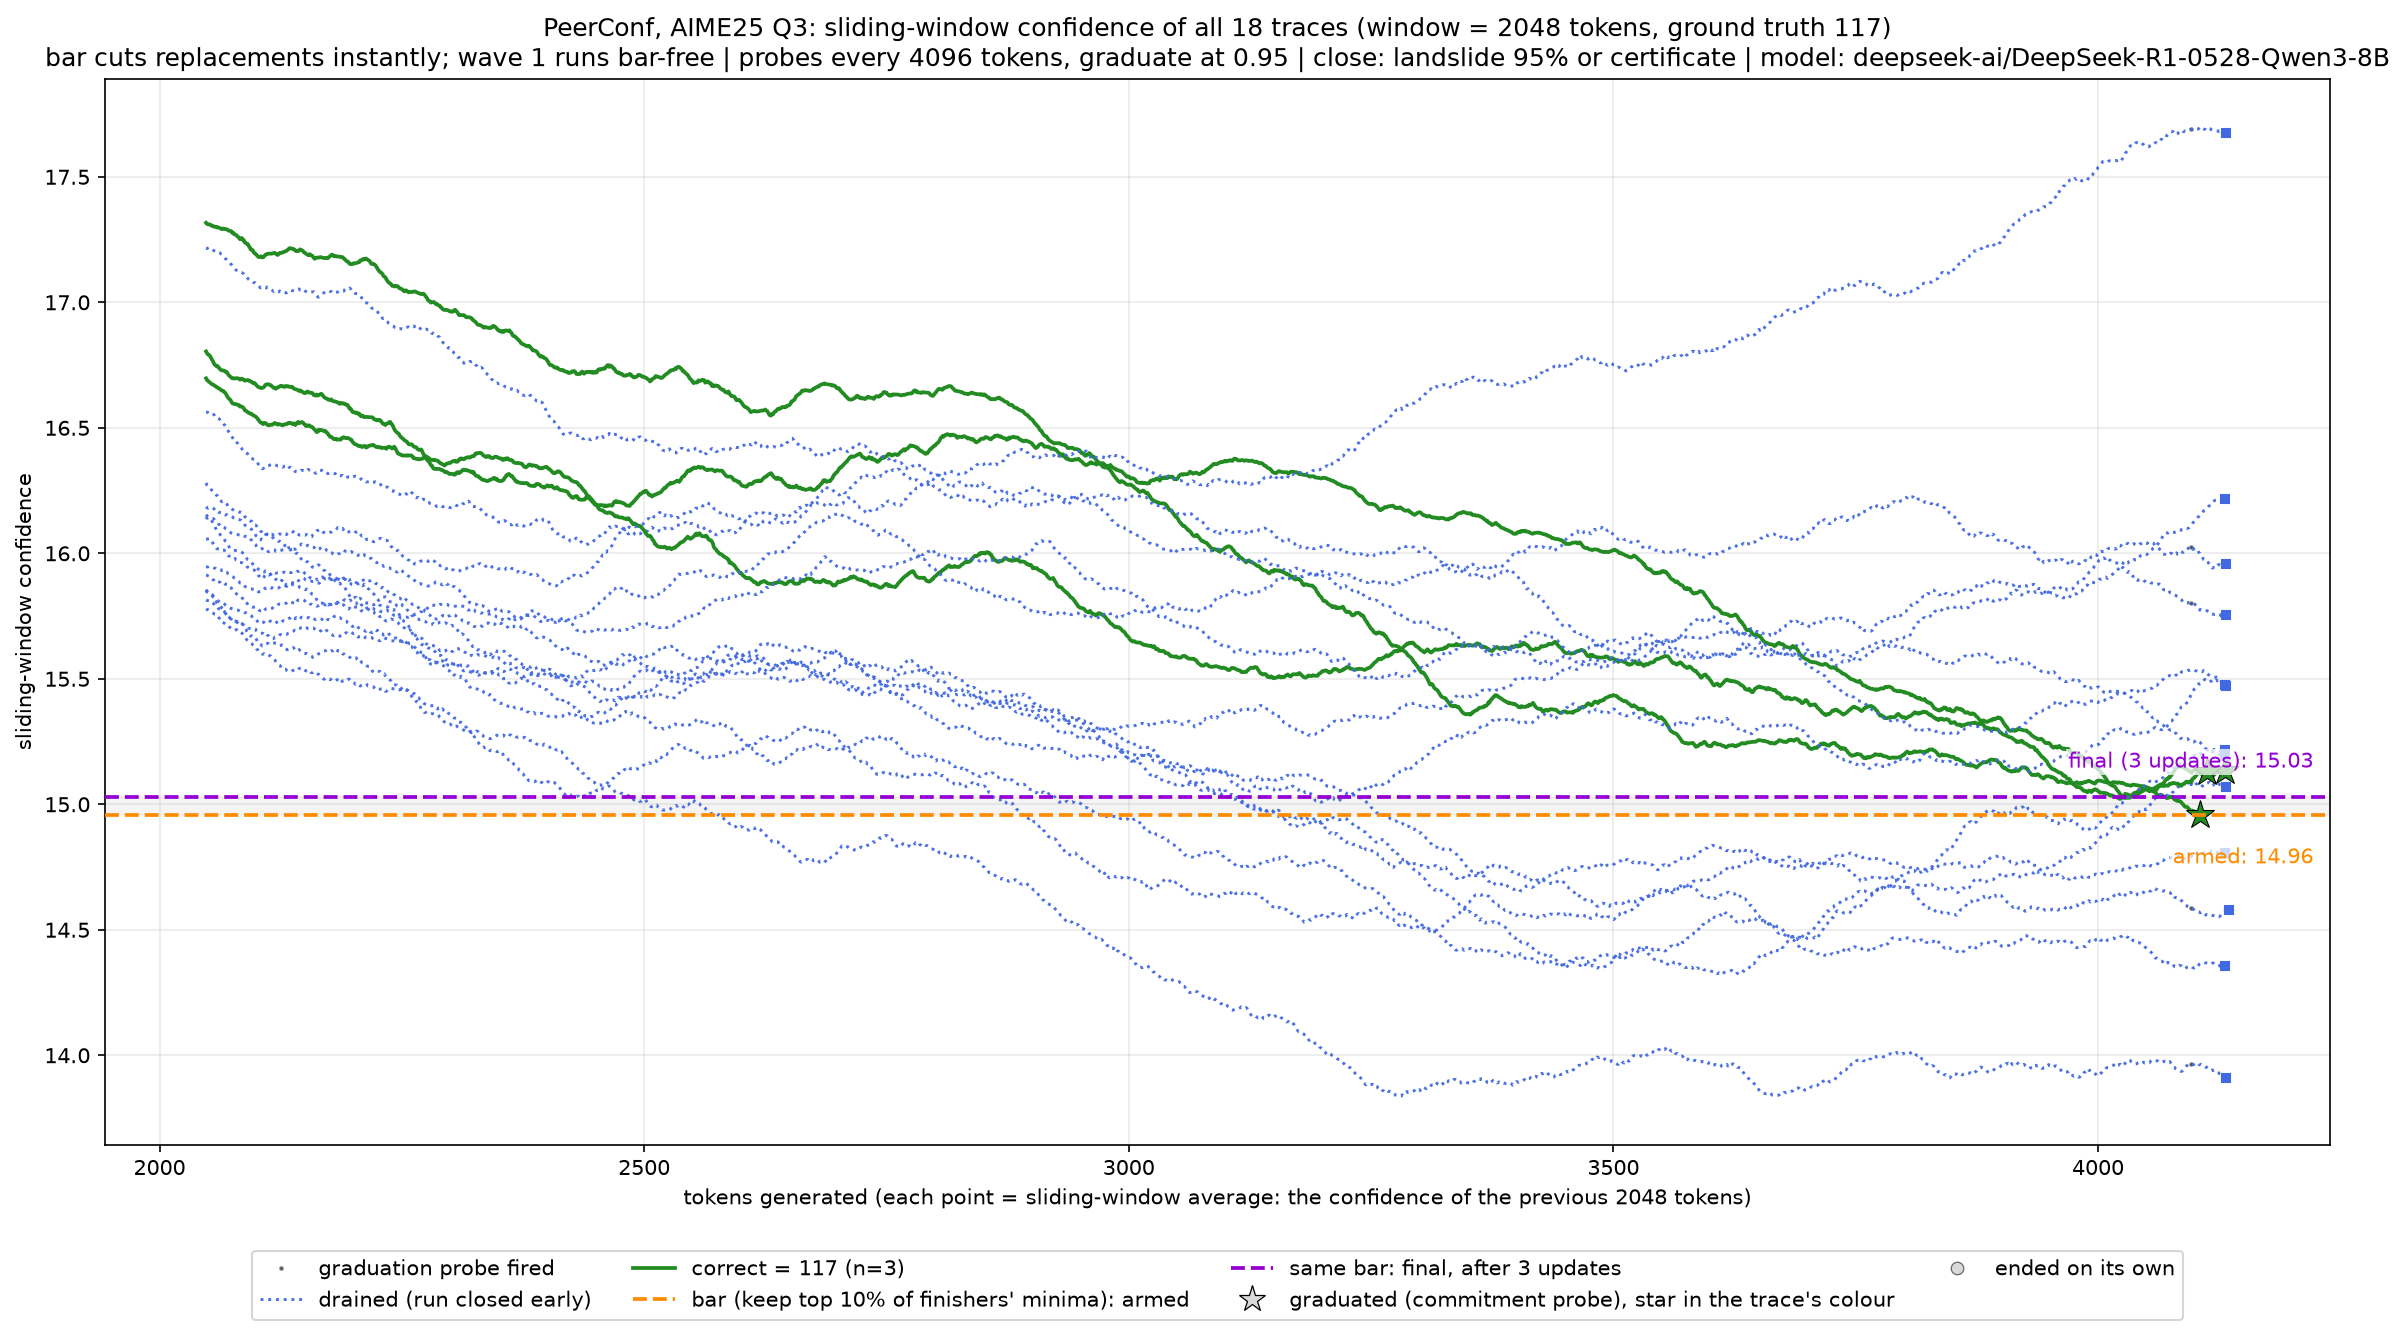
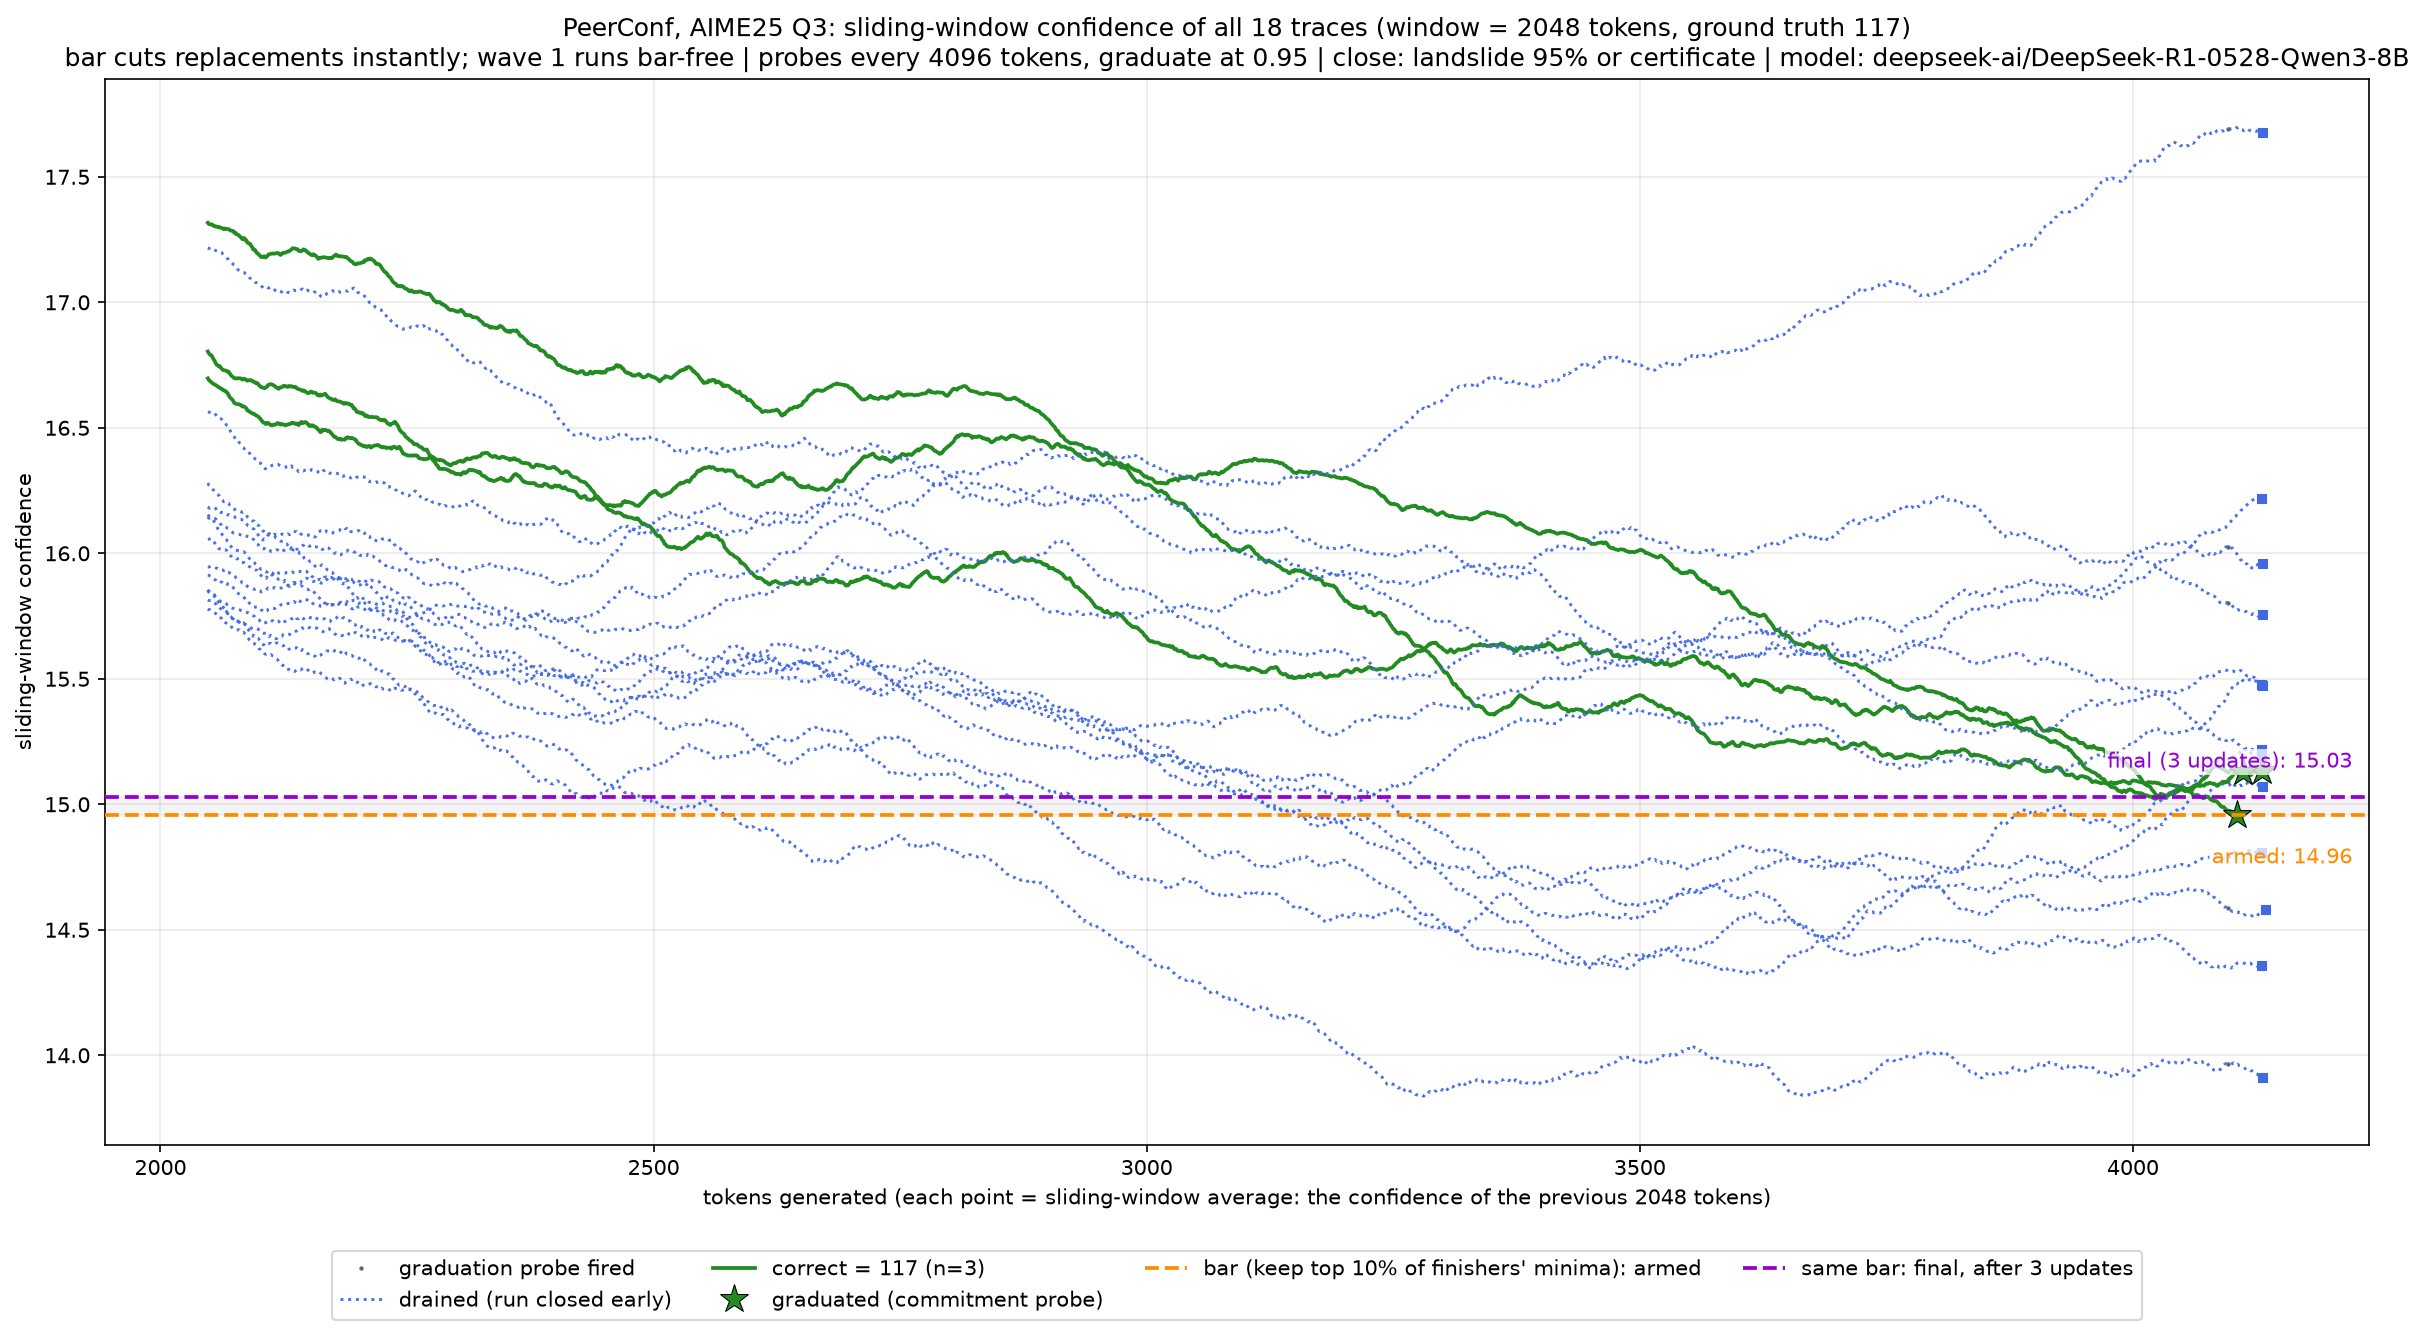
only the loop guard key is new

diff --git a/peerconf/cell3_confidence_timeline.py b/peerconf/cell3_confidence_timeline.py
@@ -69,11 +69,11 @@ def draw_timeline(fname):
     def end_marker(t, x_end, y_end, color):
         """How the trace left the run: * graduated | ^ loop-harvested | o natural."""
         if t.get("graduated"):
-            ax.plot(x_end, y_end, "*", color=color, ms=14, mec="black", mew=0.5)
-            seen_labels.add("__grad__")
+            ax.plot(x_end, y_end, "*", color=color, ms=14, mec="black", mew=0.5,
+                    label=label_once("graduated (commitment probe)"))
         elif t.get("looped"):
-            ax.plot(x_end, y_end, "^", color=color, ms=9, mec="black", mew=0.5)
-            seen_labels.add("__harvest__")
+            ax.plot(x_end, y_end, "^", color=color, ms=9, mec="black", mew=0.5,
+                    label=label_once("loop-guard harvest"))
         else:
             ax.plot(x_end, y_end, "o", color=color, ms=5)
 
@@ -95,13 +95,13 @@ def draw_timeline(fname):
             # the loop guard, not the bar: it ends a repeating trace whatever
             # its confidence, so these can land well above the line
             ax.plot(xs, ys, color="dimgray", lw=1.2, alpha=0.8)
+            seen_labels.add("__loop__")
             ax.plot(x[-1], confs[-1], "^", color="black", ms=10, mew=1.0,
                     mfc="none")
-            seen_labels.add("__loop__")
         elif t["status"] == "stopped":             # cut at the bar
-            ax.plot(xs, ys, color="gray", lw=1.0, alpha=0.7)
+            ax.plot(xs, ys, color="gray", lw=1.0, alpha=0.7,
+                    label=label_once("cut at the bar"))
             ax.plot(x[-1], confs[-1], "x", color="black", ms=10, mew=2.2)
-            seen_labels.add("__cut__")
         elif t["status"] == "finished" and is_right(t["answer"]):
             ax.plot(xs, ys, color="forestgreen", lw=1.8,
                     label=label_once(f"correct = {gt} (n={n_right})"))
@@ -191,29 +191,13 @@ def draw_timeline(fname):
         f"sliding-window confidence of all {len(r['traces'])} traces "
         f"(window = {WINDOW} tokens, ground truth {gt})\n"
         f"{sub} | model: {cfg['MODEL']}")
-    # the end markers carry each trace's own colour, so their keys are drawn
-    # neutral: it is the shape that means something, not the fill
     handles, labels = ax.get_legend_handles_labels()
-    if "__cut__" in seen_labels:
-        handles.append(Line2D([], [], color="gray", lw=1.0, marker="x",
-                              ms=9, mec="black", mew=2.0))
-        labels.append("cut at the bar")
     if "__loop__" in seen_labels:
         handles.append(Line2D([], [], color="dimgray", lw=1.2, marker="^",
                               ms=9, mfc="none", mec="black", mew=1.0))
         labels.append("ended by the loop guard")
-    if "__grad__" in seen_labels:
-        handles.append(Line2D([], [], ls="none", marker="*", ms=13, mfc="0.85",
-                              mec="black", mew=0.6))
-        labels.append("graduated (commitment probe), star in the trace's colour")
-    if "__harvest__" in seen_labels:
-        handles.append(Line2D([], [], ls="none", marker="^", ms=9, mfc="0.85",
-                              mec="black", mew=0.6))
-        labels.append("loop-guard harvest")
-    handles.append(Line2D([], [], ls="none", marker="o", ms=6, mfc="0.85",
-                          mec="0.4", mew=0.6))
-    labels.append("ended on its own")
-    ax.legend(handles, labels, loc="upper center", bbox_to_anchor=(0.5, -0.09), ncol=4)
+    ax.legend(handles, labels, loc="upper center",
+              bbox_to_anchor=(0.5, -0.09), ncol=4)
     ax.grid(alpha=0.25)
     fig.tight_layout()
 
